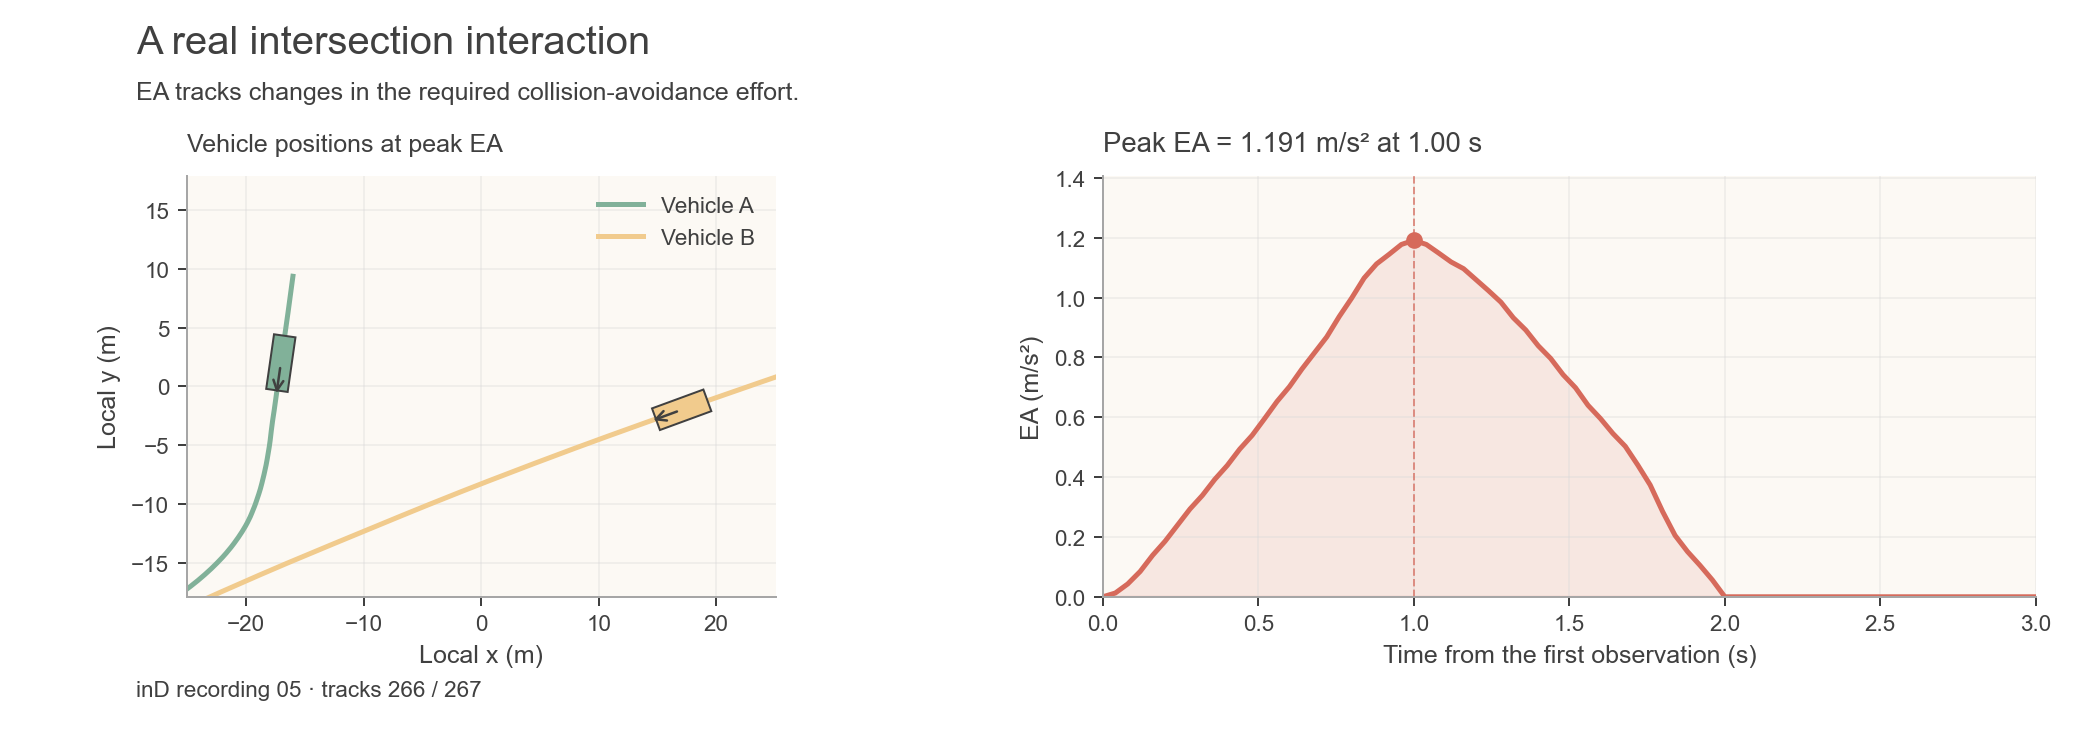
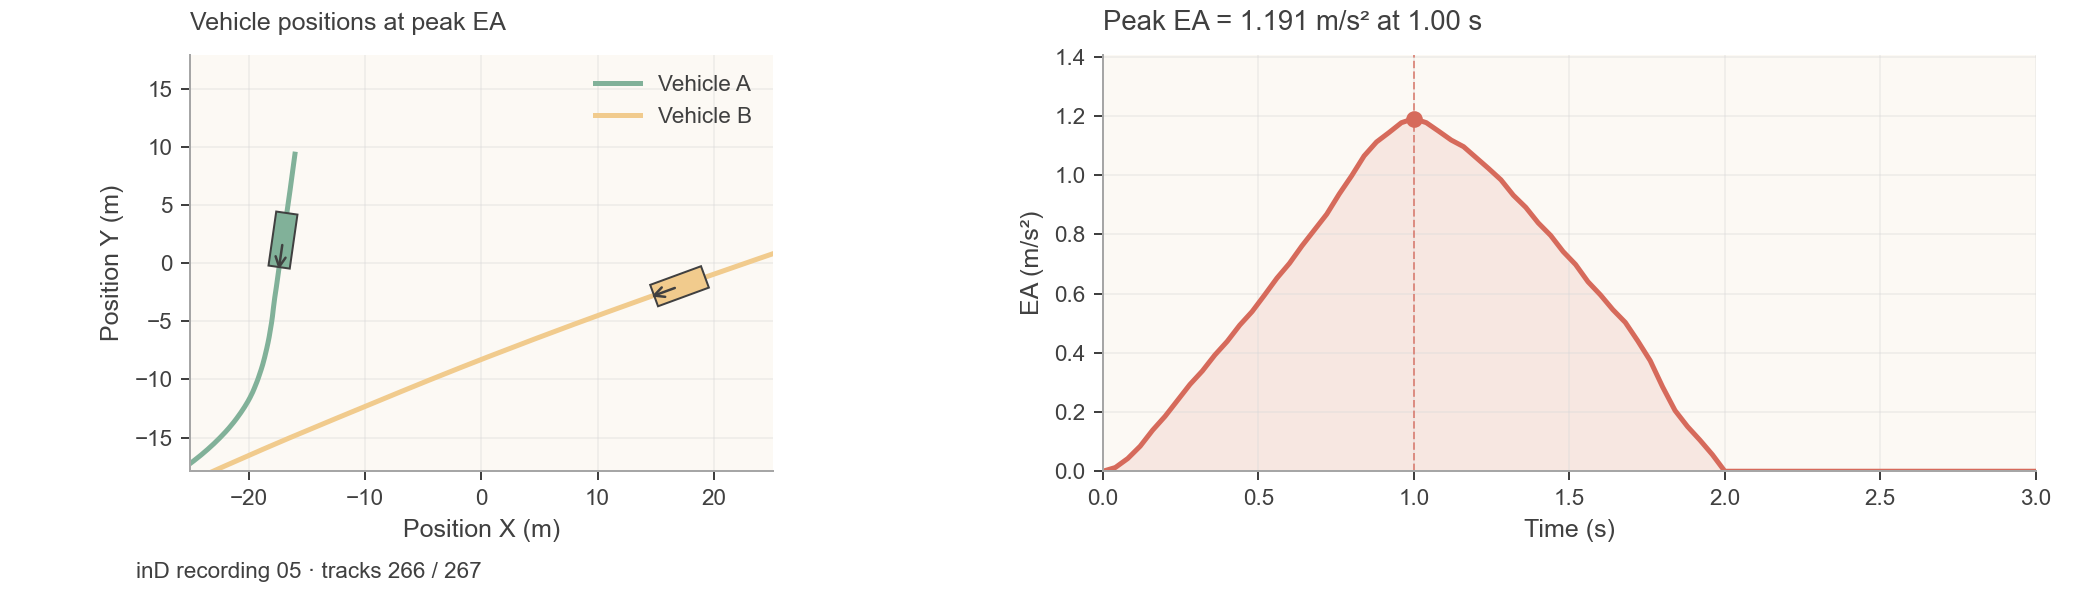
Align showcase axis labels with paper and remove redundant figure headers

diff --git a/examples/real_interaction.py b/examples/real_interaction.py
@@ -19,9 +19,9 @@ from evasive_acceleration import RoadUserState, build_compute_kwargs, compute_ea
 
 ROOT = Path(__file__).resolve().parents[1]
 CASES = {
-    "crossing": {"input": "InD_05_tracks_266_267.csv", "title": "A real intersection interaction",
+    "crossing": {"input": "InD_05_tracks_266_267.csv",
                  "label": "inD recording 05 · tracks 266 / 267"},
-    "low-speed": {"input": "InD_18_tracks_417_424.csv", "title": "A real low-speed interaction",
+    "low-speed": {"input": "InD_18_tracks_417_424.csv",
                   "label": "inD recording 18 · tracks 417 / 424"},
 }
 FIELDS = ("Position X (m)", "Position Y (m)", "Velocity (m/s)", "Heading",
@@ -77,12 +77,9 @@ def plot_case(results, case="crossing", *, allow_font_fallback=None):
     origin = np.array([(a.x + b.x) / 2, (a.y + b.y) / 2])
     colors = FIG1_COLORS
     with figure_style(allow_font_fallback=allow_font_fallback) as font:
-        fig, (scene, history) = plt.subplots(1, 2, figsize=(11.6, 4.1),
+        fig, (scene, history) = plt.subplots(1, 2, figsize=(11.6, 3.4),
             gridspec_kw={"width_ratios": [1, 1.35]})
-        fig.subplots_adjust(left=.065, right=.975, bottom=.19, top=.76, wspace=.34)
-        fig.suptitle(CASES[case]["title"], x=.065, ha="left", y=.965, fontsize=16, fontweight="normal")
-        fig.text(.065, .865, "EA tracks changes in the required collision-avoidance effort.",
-                 fontsize=10, color=colors["ink"])
+        fig.subplots_adjust(left=.065, right=.975, bottom=.23, top=.91, wspace=.34)
         for prefix, state, color, label in (("", a, colors["green"], "Vehicle A"),
                                           ("2_", b, colors["gold"], "Vehicle B")):
             xy = results[[prefix+"Position X (m)", prefix+"Position Y (m)"]].to_numpy(float) - origin
@@ -99,7 +96,7 @@ def plot_case(results, case="crossing", *, allow_font_fallback=None):
         scene.set_ylim(-half_width/1.4,half_width/1.4)
         scene.set_aspect("equal", adjustable="box")
         scene.set_title("Vehicle positions at peak EA", fontsize=10, loc="left", pad=10)
-        scene.set_xlabel("Local x (m)");scene.set_ylabel("Local y (m)")
+        scene.set_xlabel("Position X (m)");scene.set_ylabel("Position Y (m)")
         scene.grid(alpha=.45);scene.margins(.12)
         scene.legend(loc="best", frameon=False, fontsize=9)
         elapsed = results["Elapsed time (s)"].to_numpy(float)
@@ -109,7 +106,7 @@ def plot_case(results, case="crossing", *, allow_font_fallback=None):
         history.axvline(elapsed[peak], color=colors["coral"], linewidth=.8, linestyle="--", alpha=.7)
         history.set_title(f"Peak EA = {risk[peak]:.3f} m/s² at {elapsed[peak]:.2f} s",
                           fontsize=11, loc="left", pad=10)
-        history.set_xlabel("Time from the first observation (s)");history.set_ylabel("EA (m/s²)")
+        history.set_xlabel("Time (s)");history.set_ylabel("EA (m/s²)")
         history.set_xlim(*figure_window(results));history.set_ylim(0, max(.05,float(risk.max())*1.18))
         history.grid(alpha=.45)
         fig.text(.065, .055, CASES[case]["label"],

diff --git a/tests/test_real_interaction.py b/tests/test_real_interaction.py
@@ -83,15 +83,22 @@ def test_plot_failure_creates_no_output_directory(tmp_path,monkeypatch):
     assert not output.exists()
 
 
-def test_shared_figure_style_is_regular_and_no_control_arrow_claim(recorded):
+@pytest.mark.parametrize('case', ['crossing', 'low-speed'])
+def test_shared_figure_style_is_regular_and_no_control_arrow_claim(case):
     import matplotlib.pyplot as plt
     from matplotlib.text import Text
-    figure=example.plot_case(example.evaluate_frames(recorded),allow_font_fallback=True)
+    recorded=pd.read_csv(ROOT/'demo_data'/example.CASES[case]['input'])
+    figure=example.plot_case(example.evaluate_frames(recorded),case,allow_font_fallback=True)
     try:
         figure.canvas.draw()
         for text in figure.findobj(Text):
             assert text.get_fontweight() in ('normal',400)
-        assert 'EA (m/s²)' in [text.get_text() for text in figure.findobj(Text)]
+        scene,history=figure.axes
+        assert (scene.get_xlabel(),scene.get_ylabel())==('Position X (m)','Position Y (m)')
+        assert (history.get_xlabel(),history.get_ylabel())==('Time (s)','EA (m/s²)')
+        assert len(figure.texts)==1 or (
+            len(figure.texts)==2 and figure.texts[-1].get_text().startswith('Preview font: '))
+        assert figure.texts[0].get_text()==example.CASES[case]['label']
         assert 'Arrows indicate heading' in (ROOT/'docs/real_interactions.md').read_text(encoding='utf-8')
     finally:plt.close(figure)
 
